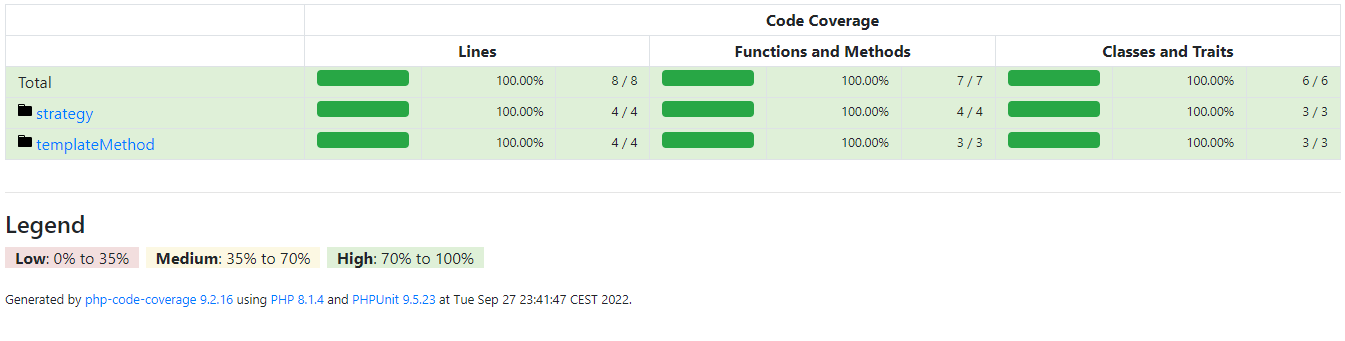
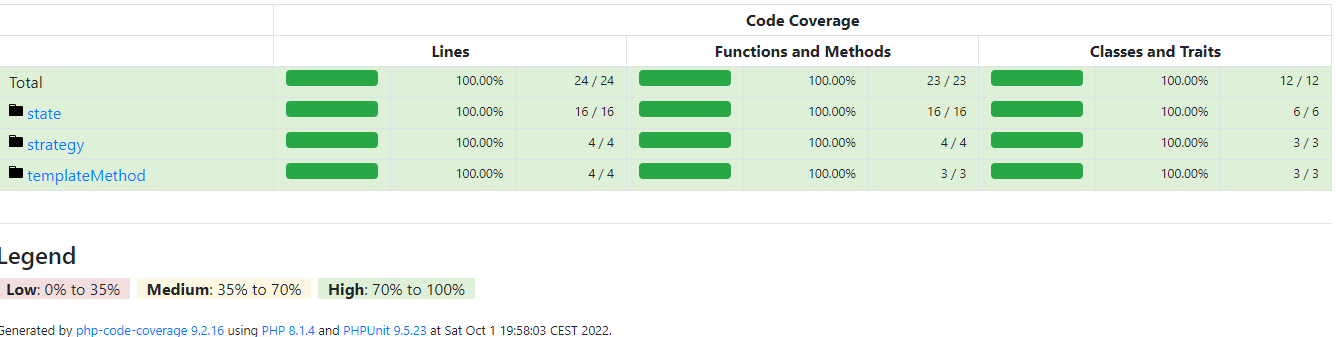
state

diff --git a/test/Unit/StateTest.php b/test/Unit/StateTest.php
@@ -1,0 +1,78 @@
+<?php
+
+namespace test\Unit;
+
+use Exception;
+use PHPUnit\Framework\TestCase;
+use src\state\estados\Aprovado;
+use src\state\estados\EmAprovacao;
+use src\state\estados\Finalizado;
+use src\state\estados\Reprovado;
+use src\state\State;
+
+class StateTest extends TestCase
+{
+    public function testEmAprovacao()
+    {
+        $estado = new State();
+        self::assertEquals($estado->verificarEstado(), 'Em aprovação');
+        self::assertInstanceOf(EmAprovacao::class, $estado->estado);
+    }
+
+    public function testAvancaParaProximaEtapa()
+    {
+        $estado = new State();
+        $estado->aprova();
+        self::assertEquals($estado->verificarEstado(), 'Aprovado');
+        self::assertInstanceOf(Aprovado::class, $estado->estado);
+    }
+
+    public function testFinalizaQuandoAprovado()
+    {
+        $estado = new State();
+        $estado->aprova();
+        $estado->finaliza();
+        self::assertEquals($estado->verificarEstado(), 'Finalizado');
+        self::assertInstanceOf(Finalizado::class, $estado->estado);
+    }
+
+    public function testQuandoTentoFinalizarSemEstarAprovadoDeveRetornarException()
+    {
+        self::expectException(Exception::class);
+        $estado = new State();
+        $estado->finaliza();
+    }
+
+    public function testReprovaEstados()
+    {
+        $estado = new State();
+        $estado->reprova();
+        self::assertEquals($estado->verificarEstado(), 'Reprovado');
+        self::assertInstanceOf(Reprovado::class, $estado->estado);
+    }
+
+    public function testFinalizarQuandoReprovado()
+    {
+        $estado = new State();
+        $estado->reprova();
+        $estado->finaliza();
+        self::assertEquals($estado->verificarEstado(), 'Finalizado');
+        self::assertInstanceOf(Finalizado::class, $estado->estado);
+    }
+
+    public function testQuandoTentoAprovarReprovadoDeveRetonarException()
+    {
+        self::expectException(Exception::class);
+        $estado = new State();
+        $estado->reprova();
+        $estado->aprova();
+    }
+
+    public function testQuandoTentoReprovarAprovadoDeveRetornarException()
+    {
+        self::expectException(Exception::class);
+        $estado = new State();
+        $estado->aprova();
+        $estado->reprova();
+    }
+}

diff --git a/src/state/State.php b/src/state/State.php
@@ -1,0 +1,36 @@
+<?php
+
+namespace src\state;
+
+use src\state\estados\EmAprovacao;
+use src\state\estados\Estados;
+
+class State
+{
+    public Estados $estado;
+
+    public function __construct()
+    {
+        $this->estado = new EmAprovacao();
+    }
+
+    public function aprova()
+    {
+        $this->estado->aprova($this);
+    }
+
+    public function reprova()
+    {
+        $this->estado->reprova($this);
+    }
+
+    public function finaliza()
+    {
+        $this->estado->finaliza($this);
+    }
+
+    public function verificarEstado()
+    {
+        return $this->estado->retornaEstado();
+    }
+}

diff --git a/src/state/estados/Estados.php b/src/state/estados/Estados.php
@@ -1,0 +1,26 @@
+<?php
+
+namespace src\state\estados;
+
+use Exception;
+use src\state\State;
+
+abstract class Estados
+{
+    public function aprova(State $state)
+    {
+        throw new Exception('Não pode ser aprovado');
+    }
+
+    public function reprova(State $state)
+    {
+        throw new Exception('Não pode ser reprovado');
+    }
+
+    public function finaliza(State $state)
+    {
+        throw new Exception('Não pode ser finalizado');
+    }
+
+    abstract function retornaEstado();
+}

diff --git a/src/state/estados/EmAprovacao.php b/src/state/estados/EmAprovacao.php
@@ -1,0 +1,23 @@
+<?php
+
+namespace src\state\estados;
+
+use src\state\State;
+
+class EmAprovacao extends Estados
+{
+    public function retornaEstado()
+    {
+        return 'Em aprovação';
+    }
+
+    public function aprova(State $state)
+    {
+        $state->estado = new Aprovado();
+    }
+
+    public function reprova(State $state)
+    {
+        $state->estado = new Reprovado();
+    }
+}

diff --git a/src/state/estados/Reprovado.php b/src/state/estados/Reprovado.php
@@ -1,0 +1,19 @@
+<?php
+
+namespace src\state\estados;
+
+use Exception;
+use src\state\State;
+
+class Reprovado extends Estados
+{
+    public function retornaEstado()
+    {
+       return 'Reprovado';
+    }
+
+    public function finaliza(State $state)
+    {
+        $state->estado = new Finalizado();
+    }
+}

diff --git a/src/state/estados/Aprovado.php b/src/state/estados/Aprovado.php
@@ -1,0 +1,18 @@
+<?php
+
+namespace src\state\estados;
+
+use src\state\State;
+
+class Aprovado extends Estados
+{
+    public function retornaEstado()
+    {
+        return 'Aprovado';
+    }
+
+    public function finaliza(State $state)
+    {
+        $state->estado = new Finalizado();
+    }
+}

diff --git a/src/state/estados/Finalizado.php b/src/state/estados/Finalizado.php
@@ -1,0 +1,13 @@
+<?php
+
+namespace src\state\estados;
+
+use Exception;
+
+class Finalizado extends Estados
+{
+    public function retornaEstado()
+    {
+        return 'Finalizado';
+    }
+}
